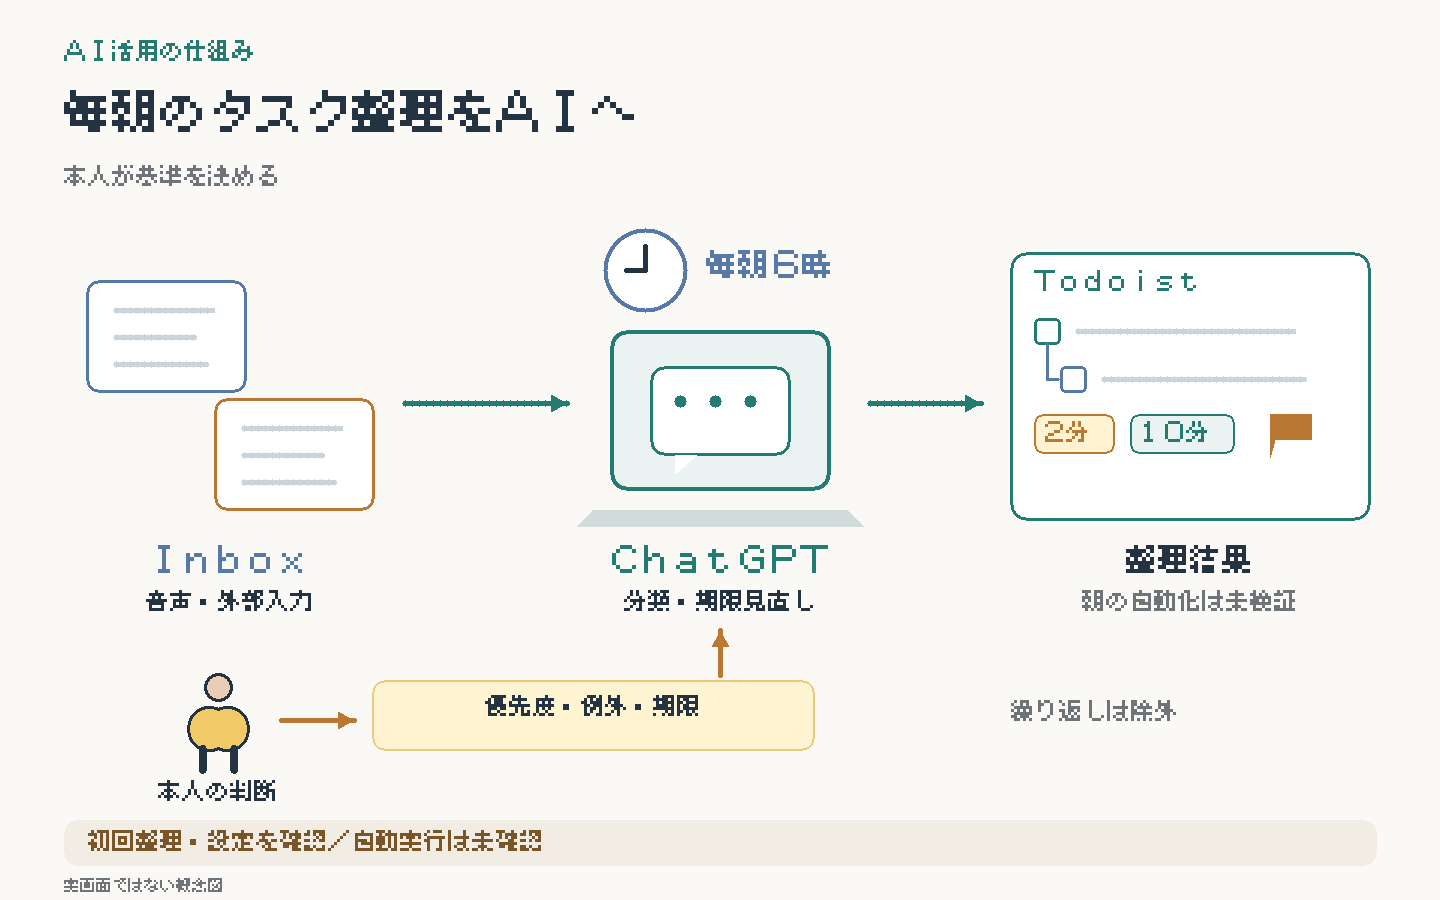
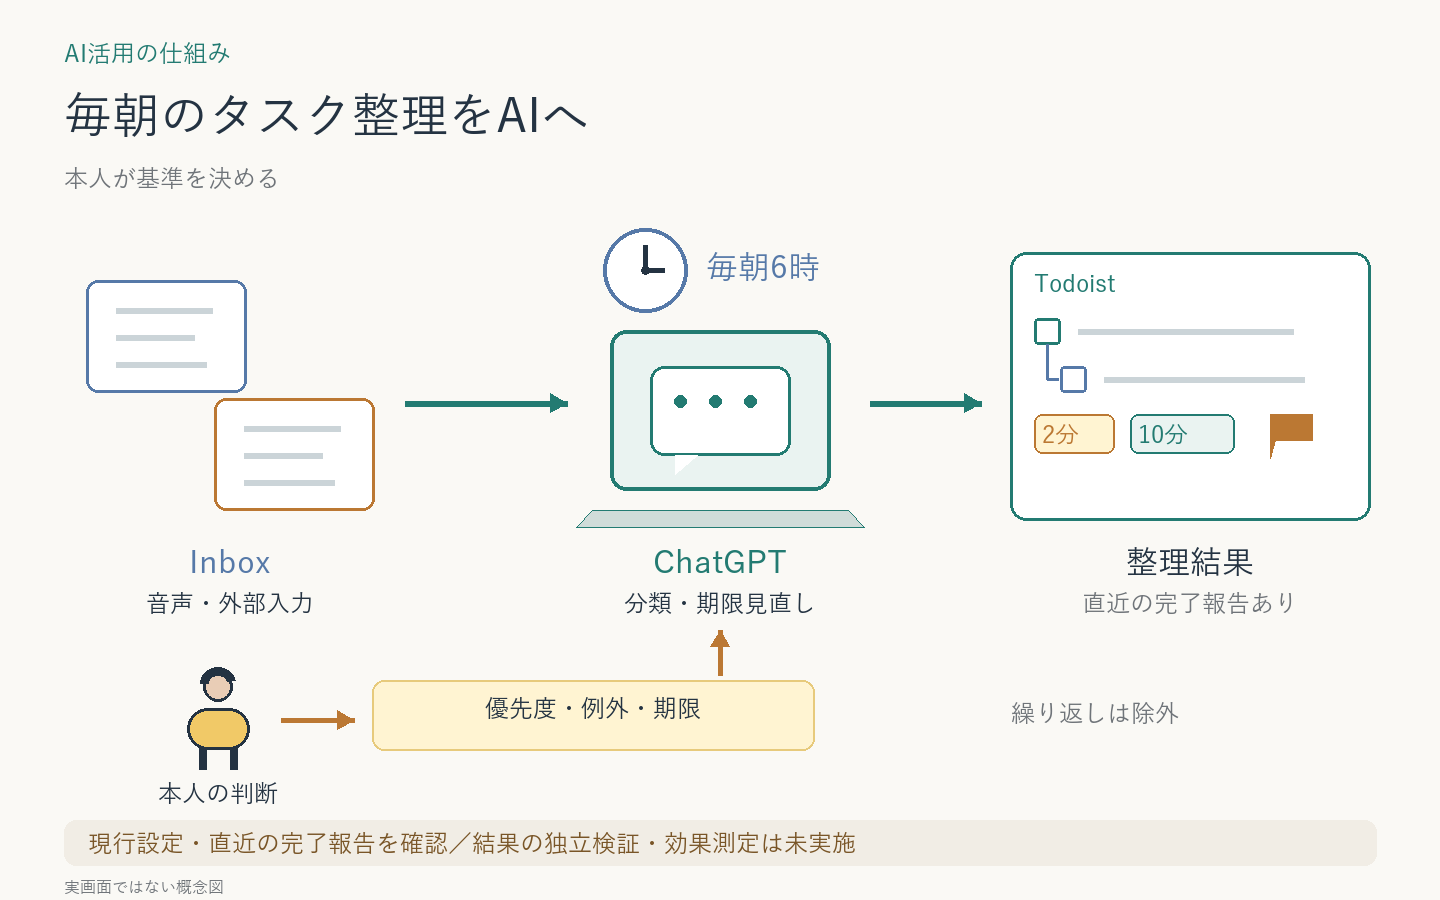
ChatGPT側の事例を現行運用と確認記録に合わせて更新

diff --git a/cases/daily-todoist-triage/figure.py b/cases/daily-todoist-triage/figure.py
@@ -1,68 +1,21 @@
-"""このケースの概念図だけを再生成する。Python 3 / Pillow / 美咲FONTX2。
-部品は scripts/figkit.py。ほかのケースのPNGには触れない。
-
-    python cases/daily-todoist-triage/figure.py --font /absolute/path/MISAKI.FNT
-
-元フォント（リポジトリには同梱しない）:
-https://github.com/yuyabu/MisakiFont-sandbox/blob/082d58b660a27d3dbb08883eccfbc6c91450eb6e/MISAKI.FNT
-美咲フォント Copyright(C) Num Kadoma。商用・非商用の使用・改変・再配布が許可されている。
-ライセンス: https://github.com/up9cloud/font-misaki/blob/master/misaki/misaki.txt
-生成後は欠字・切れ・重なりと確認状況の表記を目視確認する。
-初版は同じ配置・ビットマップ字形をJavaScriptで描画し、PNGを目視確認した。
+"""このケースの概念図だけを再生成。Python 3 / Pillow / 日本語フォント。
+python cases/daily-todoist-triage/figure.py --font /path/to/JapaneseFont.ttf
+部品は scripts/figkit.py。他ケースの画像には触れない。
 """
-import argparse
-import json
-import struct
-import sys
+import argparse, sys
 from pathlib import Path
 from PIL import Image, ImageDraw
-
+import json
 HERE = Path(__file__).resolve().parent
 sys.dont_write_bytecode = True
 sys.path.insert(0, str(HERE.parents[1] / "scripts"))
 import figkit as fk
-
 parser = argparse.ArgumentParser()
-parser.add_argument("--font", required=True, help="美咲8x8 FONTX2のMISAKI.FNT")
-data = Path(parser.parse_args().font).read_bytes()
-if data[:6] != b"FONTX2" or data[14:17] != bytes([8, 8, 1]):
-    raise ValueError("8x8の2バイト文字用FONTX2が必要です")
-blocks = []
-base = 18 + data[17] * 4
-for i in range(data[17]):
-    lo, hi = struct.unpack_from("<HH", data, 18 + i * 4)
-    blocks.append((lo, hi, base))
-    base += (hi - lo + 1) * 8
-
-def glyph(ch):
-    if "!" <= ch <= "~":
-        ch = chr(ord(ch) + 0xFEE0)
-    elif ch == " ":
-        ch = "　"
-    code = int.from_bytes(ch.encode("cp932"), "big")
-    for lo, hi, offset in blocks:
-        if lo <= code <= hi:
-            at = offset + (code - lo) * 8
-            return data[at:at + 8]
-    raise ValueError("フォントにない文字: " + ch)
-
-def bitmap_text(x, y, s, size=32, color=fk.INK):
-    # 同一の8x8字形を拡大する。本文は絵の外に短いラベルとして置く。
-    scale = size / 8
-    for ch in s:
-        for row, bits in enumerate(glyph(ch)):
-            for col in range(8):
-                if bits & (128 >> col):
-                    fk.d.rectangle((x + col * scale, y + row * scale,
-                                    x + (col + 1) * scale - 1,
-                                    y + (row + 1) * scale - 1), fill=color)
-        x += size
-
+parser.add_argument("--font", required=True)
+fk.init(parser.parse_args().font)
 fk.im = Image.new("RGB", fk.SIZE, fk.PAPER)
 fk.d = ImageDraw.Draw(fk.im)
-fk.text = bitmap_text
-fk.centered = lambda x, y, s, size=32, color=fk.INK: bitmap_text(x - len(s) * size / 2, y, s, size, color)
-SCENE = json.loads(r'''[["text",64,40,"AI活用の仕組み",24,"#237b72"],["text",64,90,"毎朝のタスク整理をAIへ",48],["text",64,165,"本人が基準を決める",24,"#6f7479"],["rr",[86,280,246,392],"white","#5679a8",3,12],["line",[[116,310],[212,310]],"#cbd4d8",6],["line",[[116,337],[194,337]],"#cbd4d8",6],["line",[[116,364],[206,364]],"#cbd4d8",6],["rr",[214,398,374,510],"white","#bb7833",3,12],["line",[[244,428],[340,428]],"#cbd4d8",6],["line",[[244,455],[322,455]],"#cbd4d8",6],["line",[[244,482],[334,482]],"#cbd4d8",6],["centered",230,545,"Inbox",32,"#5679a8"],["centered",230,590,"音声・外部入力",24],["arrow",[[405,403],[567,403]]],["clock",645,270,42],["text",706,250,"毎朝6時",32,"#5679a8"],["laptop",610,330,220,160],["centered",720,545,"ChatGPT",32,"#237b72"],["centered",720,590,"分類・期限見直し",24],["arrow",[[870,403],[981,403]]],["rr",[1010,252,1370,520],"white","#237b72",3,16],["text",1034,270,"Todoist",24,"#237b72"],["rr",[1034,318,1060,344],"white","#237b72",3,4],["line",[[1078,331],[1293,331]],"#cbd4d8",6],["rr",[1060,366,1086,392],"white","#5679a8",3,4],["line",[[1104,379],[1304,379]],"#cbd4d8",6],["line",[[1047,344],[1047,379],[1058,379]],"#5679a8",3],["rr",[1034,414,1114,453],"#fff4d2","#bb7833",2,8],["text",1042,421,"2分",24,"#bb7833"],["rr",[1130,414,1234,453],"#eaf3f1","#237b72",2,8],["text",1138,421,"10分",24,"#237b72"],["poly",[[1270,414],[1270,458],[1275,440],[1312,440],[1312,414]],"#bb7833"],["centered",1190,545,"整理結果",32],["centered",1190,590,"朝の自動化は未検証",24,"#6f7479"],["person",218,711,0.48],["centered",218,780,"本人の判断",24],["rr",[372,680,814,750],"#fff4d2","#e7ca7c",2,12],["centered",593,695,"優先度・例外・期限",24],["arrow",[[281,720],[354,720]],"#bb7833",5],["arrow",[[720,675],[720,630]],"#bb7833",5],["centered",1095,700,"繰り返しは除外",24,"#6f7479"],["rr",[64,820,1376,865],"#f1ede5","#f1ede5",1,12],["text",88,830,"初回整理・設定を確認／自動実行は未確認",24,"#795527"],["text",64,878,"実画面ではない概念図",16,"#6f7479"]]''')
+SCENE = json.loads(r'''[["text",64,40,"AI活用の仕組み",24,"#237b72"],["text",64,90,"毎朝のタスク整理をAIへ",48],["text",64,165,"本人が基準を決める",24,"#6f7479"],["rr",[86,280,246,392],"white","#5679a8",3,12],["line",[[116,310],[212,310]],"#cbd4d8",6],["line",[[116,337],[194,337]],"#cbd4d8",6],["line",[[116,364],[206,364]],"#cbd4d8",6],["rr",[214,398,374,510],"white","#bb7833",3,12],["line",[[244,428],[340,428]],"#cbd4d8",6],["line",[[244,455],[322,455]],"#cbd4d8",6],["line",[[244,482],[334,482]],"#cbd4d8",6],["centered",230,545,"Inbox",32,"#5679a8"],["centered",230,590,"音声・外部入力",24],["arrow",[[405,403],[567,403]]],["clock",645,270,42],["text",706,250,"毎朝6時",32,"#5679a8"],["laptop",610,330,220,160],["centered",720,545,"ChatGPT",32,"#237b72"],["centered",720,590,"分類・期限見直し",24],["arrow",[[870,403],[981,403]]],["rr",[1010,252,1370,520],"white","#237b72",3,16],["text",1034,270,"Todoist",24,"#237b72"],["rr",[1034,318,1060,344],"white","#237b72",3,4],["line",[[1078,331],[1293,331]],"#cbd4d8",6],["rr",[1060,366,1086,392],"white","#5679a8",3,4],["line",[[1104,379],[1304,379]],"#cbd4d8",6],["line",[[1047,344],[1047,379],[1058,379]],"#5679a8",3],["rr",[1034,414,1114,453],"#fff4d2","#bb7833",2,8],["text",1042,421,"2分",24,"#bb7833"],["rr",[1130,414,1234,453],"#eaf3f1","#237b72",2,8],["text",1138,421,"10分",24,"#237b72"],["poly",[[1270,414],[1270,458],[1275,440],[1312,440],[1312,414]],"#bb7833"],["centered",1190,545,"整理結果",32],["centered",1190,590,"直近の完了報告あり",24,"#6f7479"],["person",218,711,0.48],["centered",218,780,"本人の判断",24],["rr",[372,680,814,750],"#fff4d2","#e7ca7c",2,12],["centered",593,695,"優先度・例外・期限",24],["arrow",[[281,720],[354,720]],"#bb7833",5],["arrow",[[720,675],[720,630]],"#bb7833",5],["centered",1095,700,"繰り返しは除外",24,"#6f7479"],["rr",[64,820,1376,865],"#f1ede5","#f1ede5",1,12],["text",88,830,"現行設定・直近の完了報告を確認／結果の独立検証・効果測定は未実施",24,"#795527"],["text",64,878,"実画面ではない概念図",16,"#6f7479"]]''')
 for op, *args in SCENE:
     if op == "line":
         fk.d.line([tuple(p) for p in args[0]], fill=args[1], width=args[2], joint="curve")

diff --git a/scripts/render_covers.py b/scripts/render_covers.py
@@ -6,7 +6,9 @@ from PIL import Image, ImageDraw, ImageFont
 ROOT = Path(__file__).resolve().parents[1]
 parser = argparse.ArgumentParser()
 parser.add_argument('--font', required=True, help='Noto Sans JP等の日本語フォント')
-FONT = parser.parse_args().font
+parser.add_argument('--case', choices=['youtube-playlist-cleanup', 'scheduled-reviews'], help='指定したケースだけ保存する')
+args = parser.parse_args()
+FONT = args.font
 INK='#243342'; TEAL='#237b72'; BLUE='#5679a8'; AMBER='#bb7833'
 PAPER='#faf9f5'; LINE='#cbd4d8'
 im=None; d=None
@@ -89,7 +91,8 @@ def footer(status):
     text(64,876,'実画面ではなく、役割と関係を示す概念図',16,'#6f7479')
 
 def save(case,name):
-    im.save(ROOT/'cases'/case/name,optimize=True)
+    if args.case is None or args.case == case:
+        im.save(ROOT/'cases'/case/name,optimize=True)
 
 begin('YouTubeの整理をAIへ任せる','人が基準を決める → AIが確認・整理する')
 # disorder is visible without reading paragraphs
@@ -110,7 +113,7 @@ rr((510,658,762,729),'#fff4d2','#e7ca7c',2,12)
 centered(636,674,'残す・まとめる基準',26)
 arrow([(768,690),(916,690),(916,555),(850,555)],AMBER,5)
 arrow([(446,677),(493,677)],AMBER,5)
-footer('依頼・方針を記録済み ／ 整理の完了結果は未確認')
+footer('本人申告で完了 ／ 変更件数・変更前後・操作ログは未確認')
 save('youtube-playlist-cleanup','cover.png')
 
 begin('定期レビューをAIに任せる','毎回の依頼を、周期と判断基準の設定へ')
@@ -145,11 +148,11 @@ def details(case,title,status,items):
     footer(status)
     save(case,'flow.png')
 
-details('youtube-playlist-cleanup','YouTube整理：作業と判断の分担','依頼を記録済み ／ 実際の変更・完了結果は未確認',[
+details('youtube-playlist-cleanup','YouTube整理：作業と判断の分担','本人申告で完了 ／ 変更件数・変更前後・操作ログは未確認',[
     ('課題',['増えたマイリストの確認と整理を','人間が一つずつ行う負担がある']),
     ('AIの作業',['棚卸し・分類・統合候補の抽出','許可された範囲で画面を操作する']),
     ('人間の判断',['残す基準、統合・削除の方針','必要な例外を判断する']),
-    ('確認すること',['実際の変更件数と整理結果','時間削減は測定後に記録する']),
+    ('確認状況',['本人申告で整理完了','件数・変更前後・効果は未確認']),
 ])
 details('scheduled-reviews','定期レビュー：作業と判断の分担','設定・実行日時を確認 ／ 各成果物の成功を示すものではない',[
     ('課題',['定期確認や情報収集のたびに','人間が依頼・確認を繰り返す']),

diff --git a/cases/bookmark-to-action/figure.py b/cases/bookmark-to-action/figure.py
@@ -13,7 +13,7 @@ f.centered(155,568,'X：一時保存',27)
 f.arrow([(240,423),(460,423)])
 f.laptop(480,350,225,160)
 f.centered(593,570,'AIが振り分け',28,f.TEAL)
-f.clock(550,255,34);f.text(605,235,'週1回20分',25,f.BLUE)
+f.person(565,270,.35);f.text(605,235,'気づいた時',25,f.BLUE)
 f.person(590,701,.42);f.centered(590,776,'本人の判断',22)
 f.arrow([(590,663),(590,616)],f.AMBER)
 for y in [250,395,540,685]:
@@ -32,5 +32,5 @@ f.d.line([(947,747),(1038,680)],fill=f.LINE,width=12)
 f.d.ellipse((980,680,1013,713),fill=f.TEAL)
 f.d.polygon([(982,703),(1011,703),(996,733)],fill=f.TEAL)
 f.text(1090,671,'Google Maps',28,f.BLUE);f.text(1090,722,'行きたい場所',24)
-f.footer('初回整理と週次設定を確認／定期実行の成功と効果は未検証')
+f.footer('初回整理を確認／定期は停止中・本人が気づいたときに依頼')
 f.save(HERE/'cover.png')

diff --git a/cases/daily-todoist-triage/README.md b/cases/daily-todoist-triage/README.md
@@ -2,24 +2,19 @@
 
 ![入力したタスクをChatGPTが分類し、本人が優先度・期限・例外を決める概念図](cover.png)
 
-音声入力や外部ツールから積み重なるタスクを、ChatGPT Workで整理し、毎朝6時（日本時間）のスケジュールへ引き継ぐ事例。
-**初回の整理操作と設定を確認。翌朝の自動実行とテスト結果は未確認。**
+積み重なるタスクをChatGPTが毎朝6時（日本時間）に整理する。
+**現行設定と2026-10-31朝の完了記録・更新後の再取得を行った旨の報告を確認。結果の独立検証と効果測定は未実施。**
 
-**AI：** Inboxの分類、サブタスク化、時間・委譲先のタグ付け、期限の見直し、今日の順序の整理。  
-**人間：** 優先度・除外範囲の決定、例外判断、本人が担う作業の実行。
+**AI：** Inboxの分類、親子関係・タグ・優先度の整理、今日の候補の選定。  
+**人間：** 判断基準・除外範囲・例外の決定と実作業。
 
-初回は既存98件を保持して整理。時間・委譲先など9種類のラベルを作り、架空のテスト7件も登録した。本人が整理結果を確認し、優先度の基準を修正した。
+2026-10-30から、予定の指示文は非公開の運用ルールの「Todoistと日次タスク整理」節を全文読んで従う形。基準を重複管理せず、読めない日は整理しない。日曜の大きな目標の見直しは現行運用に含めない。
 
-再利用できる工夫：
+- 編集はInboxだけ。他プロジェクトは直近の期限確認のみ。繰り返しプロジェクトと配下は除外。
+- 確定期限と開始条件を区別。着手待ちは時間タグなし・P4。P1/P2は着手できるものだけ。
+- 今日の候補は1〜3件。更新後に再取得し、日付・親子関係・既存タグの保持を確認。
 
-- P1は重要かつ緊急、P2は重要だが緊急ではない。通常はP4、P3は使わない。
-- 確定期限・元からある日付・AIの変更可能な予定を区別。不明な日付は保護する。
-- 繰り返しプロジェクトは取得・変更・報告から除外。他プロジェクトの期限確認は読み取りだけ。
-- 変更前後を照合し、関係・期限の保持と重複を確認する。日曜は大きな目標の次の一手も見直す。
-
-2026-10-28から、同じ毎朝のスケジュールの最初に[メール仕分け](../daily-email-triage/)を行い、メールから来たタスクもその日の整理に含める。
-
-削減時間・継続運用の効果は未測定。
+同じ毎朝の処理で[メール仕分け](../daily-email-triage/)を先に行い、登録されたタスクも整理する。
 
 [タスク管理の全体像](../../systems/daily-task-hub/) ／ [横断タスクボード](../../systems/cross-task-board/)
 

diff --git a/cases/bookmark-to-action/README.md b/cases/bookmark-to-action/README.md
@@ -2,15 +2,15 @@
 
 ![一時保存をAIが分類し、記事・購入候補・買い物・行き先へ振り分ける概念図](cover.png)
 
-Xに積み上がった保存を、読む・検討する・実行する情報へ整理。ChatGPTに分類設計と各サービスの操作を委譲し、週次運用へつなぐ。
-**初回の整理結果と週次設定を確認。定期実行の成功・継続効果は未検証。**
+Xに積み上がった保存を、読む・検討する・実行する情報へ整理。ChatGPTに分類設計と各サービスの操作を委譲する。
+**初回の整理結果を確認。定期運用は停止中で、本人が気づいたときに頼む。**
 
 **AI：** 棚卸し、分類、重複照合、移行、読書候補の選定、変更記録。  
-**人間：** 保存先の役割、残す基準、最新DB、例外判断、実際の購入・読書。
+**人間：** 保存先の役割、残す基準、最新DB、例外判断、依頼するタイミング、実際の購入・読書。
 
 初回はX・Raindrop・wishlist・Todoist・Maps間の移行と、移行後の保存状態を確認した。旧wishlistは履歴として保管した。
 
-再利用の工夫は「保存先を確認してから一時保存を外す」「古さだけで削除しない」「旧DBの保全を確認」「記事と行動を分ける」。本人が選んだ週次スケジュールを登録した。削減時間は未測定。
+再利用の工夫は「保存先を確認してから一時保存を外す」「古さだけで削除しない」「旧DBの保全を確認」「記事と行動を分ける」。2026-10-30に定期ではなく随時依頼へ変更。2026-10-31の予定一覧に該当する予定はない。削減時間は未測定。
 
 [タスク管理の全体像](../../systems/daily-task-hub/) ／ [GUI整理の関連例](../youtube-playlist-cleanup/)
 

diff --git a/cases/scheduled-reviews/README.md b/cases/scheduled-reviews/README.md
@@ -4,7 +4,7 @@
 
 定期的な情報確認・振り返りを、ChatGPTのスケジュールで実行する事例。
 AIが最新情報と記録を確認・分析し、人間が提案を評価して次の行動を決める。
-**既存の週次処理の有効設定と実行日時を確認。成果物と効果は未検証。**
+**2026-10-31に現行設定と、10月25日の両処理の完了記録・保存報告を確認。成果物の独立検証と効果測定は未実施。**
 
 | 従来 | 運用の形 |
 | --- | --- |
@@ -13,8 +13,11 @@ AIが最新情報と記録を確認・分析し、人間が提案を評価して
 **AI：** 記録の取得、情報収集、分析、許可した範囲への保存・更新、報告。  
 **人間：** 目的・周期・判断基準の設定、提案の採否、次の行動。
 
-例として読書レビューや情報収集で利用。指示には取得失敗や保存失敗を明示する運用を含める。
-実行日時は各処理の成功を保証しない。成果物確認と本人の作業時間測定を今後の検証に残す。
+読書レビューは毎週日曜20:30を基準とする柔軟な実行枠、会話から長期的な差分を残すコンテキスト更新は毎週日曜22:00（日本時間）。取得・保存の失敗は明示する。
+
+週次コンテキスト更新はChatGPTのみ。Claude.aiの会話からの週次更新は2026-10-30に停止した（本人申告、関連する全体構成の記録と照合）。
+
+両処理の直近実行は記録上completedで、同じ実行の報告に保存・更新の記載がある。実行日時だけで成功とせず、成果物の内容と継続効果は別に検証する。
 
 <details>
 <summary>作業と判断の説明図を見る</summary>

diff --git a/cases/youtube-playlist-cleanup/README.md b/cases/youtube-playlist-cleanup/README.md
@@ -1,10 +1,10 @@
 # YouTubeマイリスト整理をAIへ委譲
 
-![課題・AI・人間・確認待ちの関係](cover.png)
+![課題・AI・人間・本人申告による完了の関係](cover.png)
 
 増えたマイリストを手作業で確認する負担を、ChatGPT WorkのComputer Useへ委譲する事例。
 AIに現状確認・分類・整理操作を任せ、人間は残す基準と整理方針を決める。
-**現在は依頼・方針を記録した段階。完了結果は未確認。**
+**本人申告で完了。2026-10-30に、ChatGPTのComputer Useで本人のアカウントを整理したと確認。**
 
 | 従来 | 設計した運用 |
 | --- | --- |
@@ -13,7 +13,7 @@ AIに現状確認・分類・整理操作を任せ、人間は残す基準と整
 **AI：** 棚卸し、分類、統合候補の抽出、許可範囲の操作。  
 **人間：** 残す基準、統合・削除の方針、必要な例外判断。
 
-作成・削除・統合も依頼範囲に含む。実施件数、変更前後、削減時間は未確認のため実績に含めない。
+作成・削除・統合も依頼範囲に含む。完了操作のログ、実施件数、変更前後は参照できた会話に残っていないため、本人申告と区別して未確認とする。削減時間は未測定。
 再利用できるのは「GUI上の整理作業を、判断基準と操作に分けて委譲する」設計。
 
 <details>
